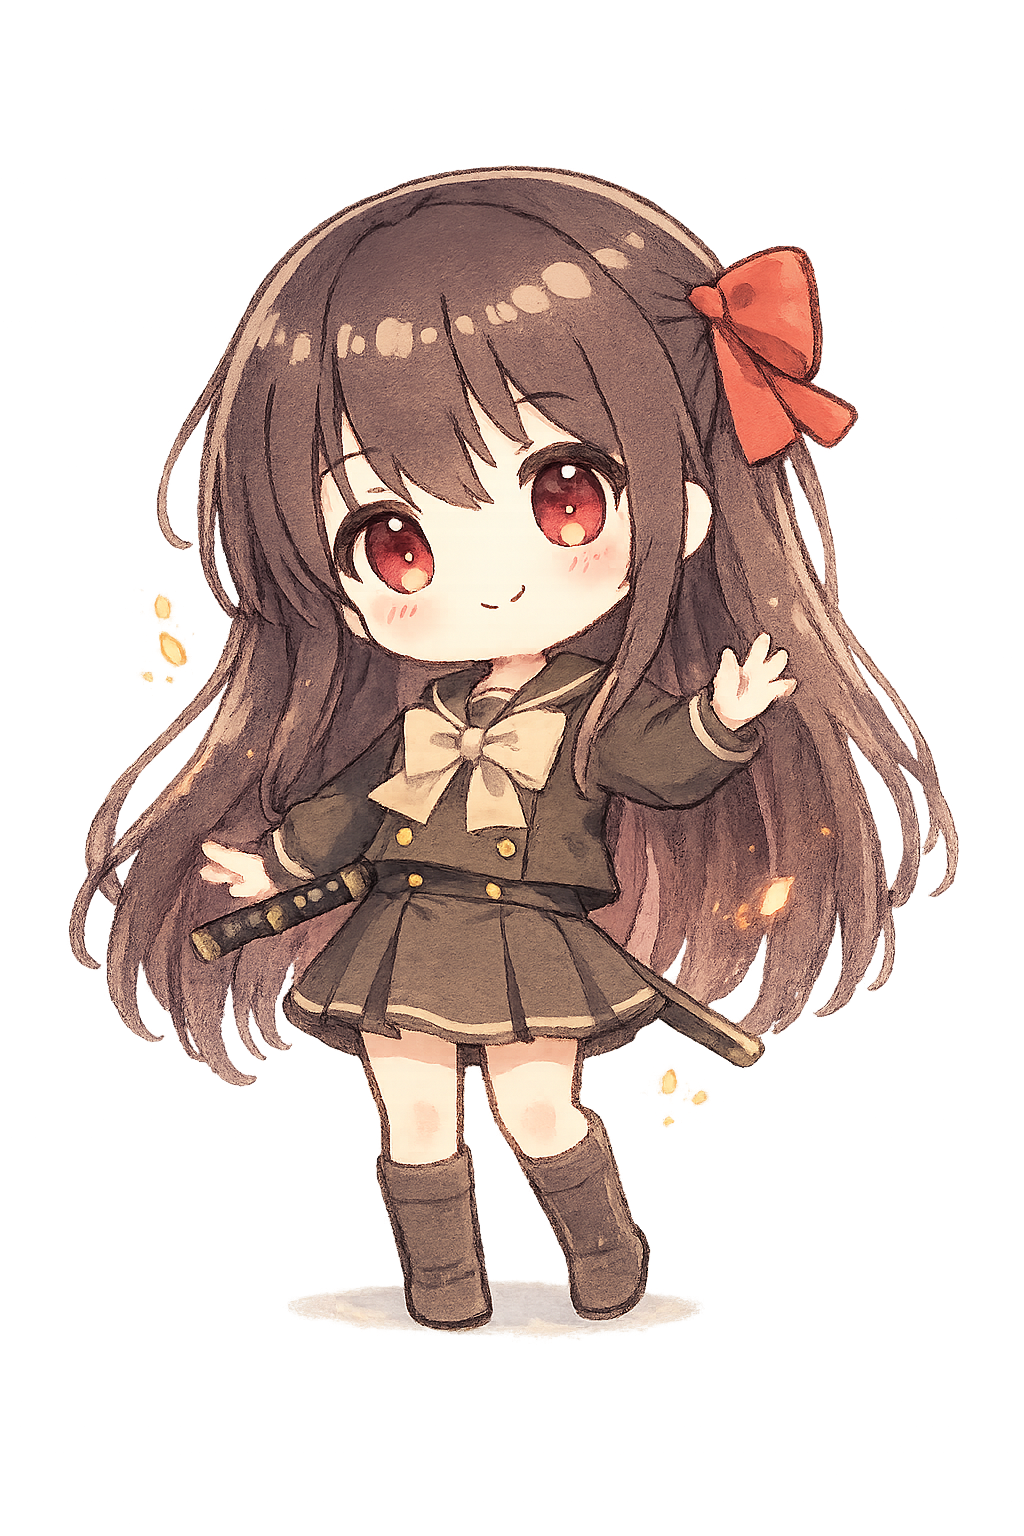
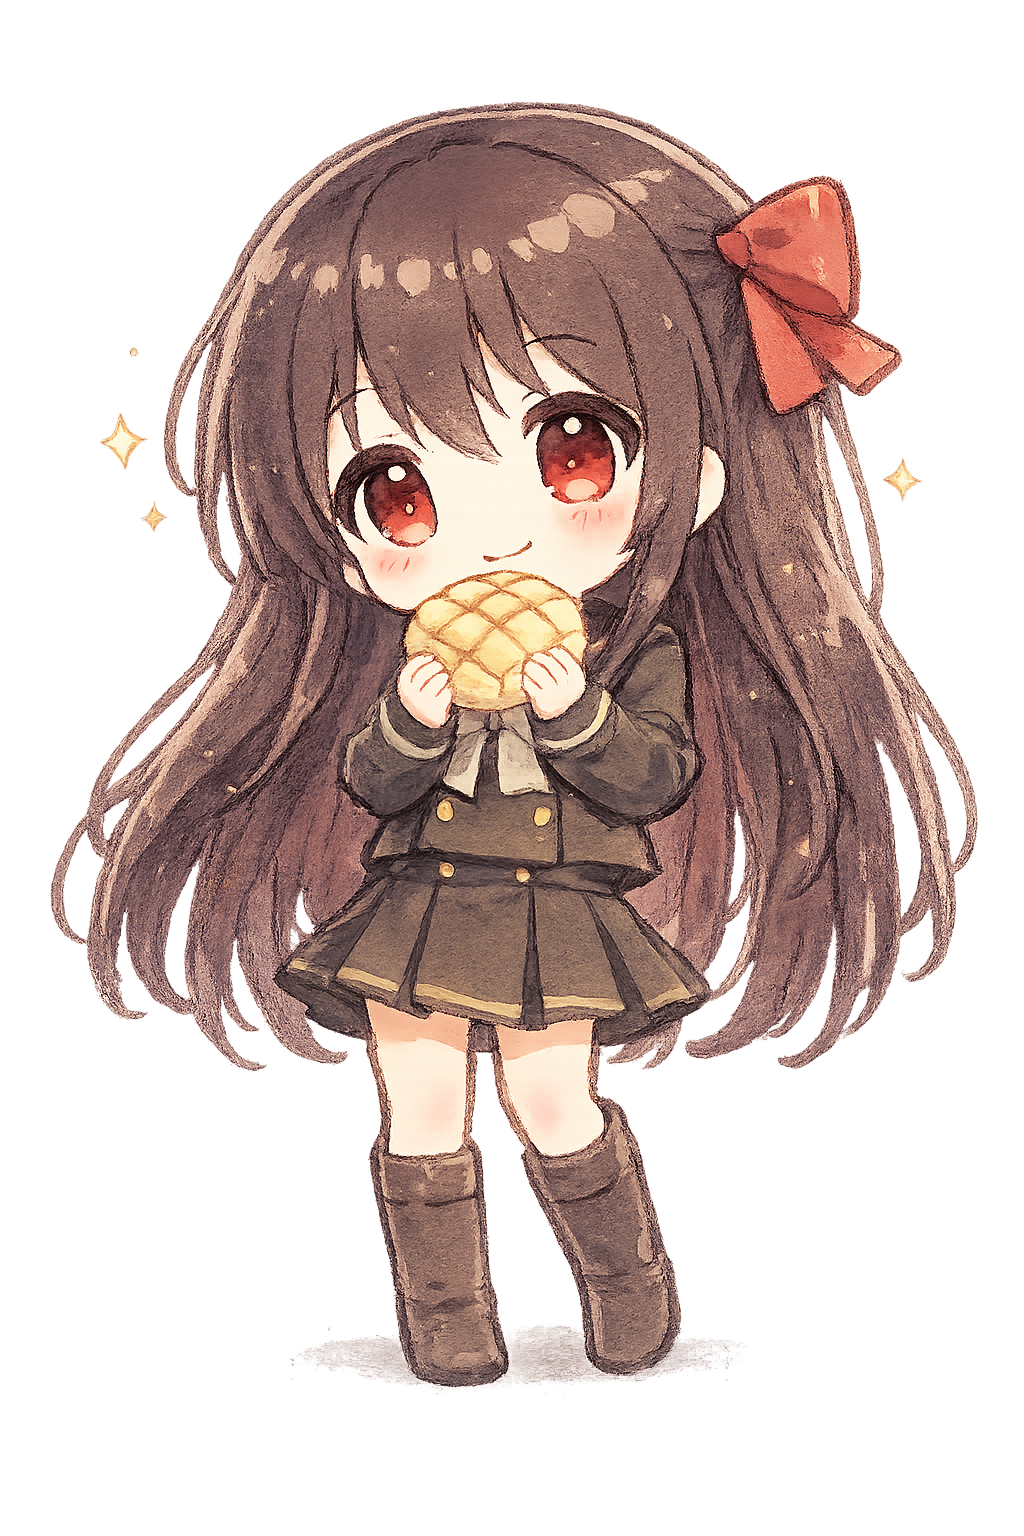
fix: separate sign card cache variants

diff --git a/main.py b/main.py
@@ -108,7 +108,7 @@ AVATAR_CACHE_TTL_SECONDS = 60 * 60
 AVATAR_CACHE_RETENTION_SECONDS = 30 * 24 * 60 * 60
 AVATAR_FAILURE_RETRY_SECONDS = 5 * 60
 AVATAR_MEMORY_CACHE_SECONDS = 5 * 60
-CARD_CACHE_VERSION = "3"
+CARD_CACHE_VERSION = "4"
 LOCAL_ASSET_CACHE_VERSION = "1"
 TEMPLATE_UPLOAD_PREFIX = "files/template_management/packages/"
 SIGN_COMMAND_NAMES = ("签到", "打卡")
@@ -251,6 +251,7 @@ class ZhenxunSign(Star):
         )
         await asyncio.to_thread(self._prune_avatar_cache)
         self._sync_template_schema(packs)
+        await self._clear_card_cache_if_requested()
         if self._image_cache_enabled():
             await self._prepare_card_cache(
                 datetime.now(self.timezone).date().isoformat()
@@ -1050,12 +1051,43 @@ class ZhenxunSign(Star):
                         (card_data or {}).get("gold_balance"),
                         (card_data or {}).get("inventory"),
                         (card_data or {}).get("favour_cache_token"),
+                        (card_data or {}).get("mode"),
+                        (card_data or {}).get("is_card_view"),
                     )
                 ),
             )
         )
         digest = hashlib.sha256(variant.encode("utf-8")).hexdigest()
         return self.data_dir / "card_cache" / cache_date / f"{digest}.png"
+
+    async def _clear_card_cache_if_requested(self) -> None:
+        configured = self.config.get("image_cache", {})
+        if not isinstance(configured, dict) or not bool(
+            configured.get("clear_now", False)
+        ):
+            return
+
+        try:
+            async with self._card_cache_guard:
+                await asyncio.to_thread(self._clear_card_cache)
+                self._card_cache_locks.clear()
+                self._card_cache_day = ""
+        except OSError as error:
+            self.logger.warning("Sign card cache could not be cleared: %s", error)
+            return
+
+        configured["clear_now"] = False
+        save_config = getattr(self.config, "save_config", None)
+        if callable(save_config):
+            save_config()
+        self.logger.info("Sign card cache cleared from plugin settings")
+
+    def _clear_card_cache(self) -> None:
+        cache_root = self.data_dir / "card_cache"
+        if cache_root.is_dir():
+            shutil.rmtree(cache_root)
+        elif cache_root.exists():
+            cache_root.unlink()
 
     async def _prepare_card_cache(self, cache_date: str) -> None:
         async with self._card_cache_guard:
